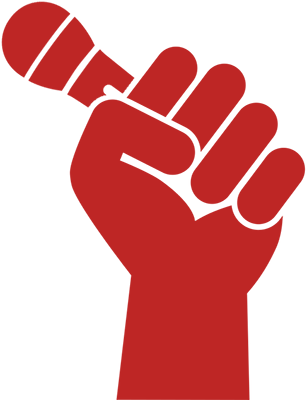
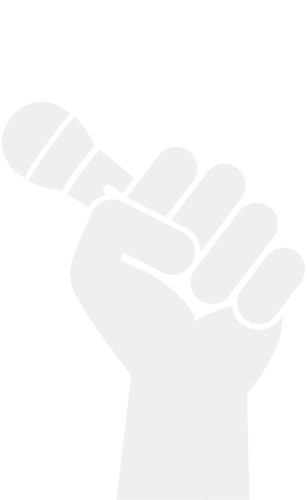
Slam fist

diff --git a/make/styles.css b/make/styles.css
@@ -2,16 +2,19 @@
 body { 
   width: 100%;
   height: 100%;
-  background-color: #FFFAFA;
+  background: #C7D0D5 url('../img/make/slam.png') no-repeat center top;
+  margin: ;
 }
 
 h1 {
   font-family: 'Oswald', sans-serif;
+  color: #38546B;
+  font-size: 85px;
   font-weight: 700;
   line-height:100px;
-  font-size: 65px;
   text-transform: uppercase;
-  margin: 200px auto 200px;
+  text-align: center;
+  margin: 150px auto;
   }
 
 h2 {
@@ -25,16 +28,16 @@ h2 {
 
 p {
   font-family: 'Droid Serif', serif;
+  color: #546C7F;
   font-size: 15px;
   line-height: 23px;
   margin: 0 0 23px 0;
   }
 
 .container {
-  background: url('../img/make/slam-grey.png') no-repeat;
-  width: 1200px;
+  width: 75%;
   height: auto;
-  margin: 0 auto;
+  margin: 25px auto;
   overflow: hidden;
   display: block;
 }
